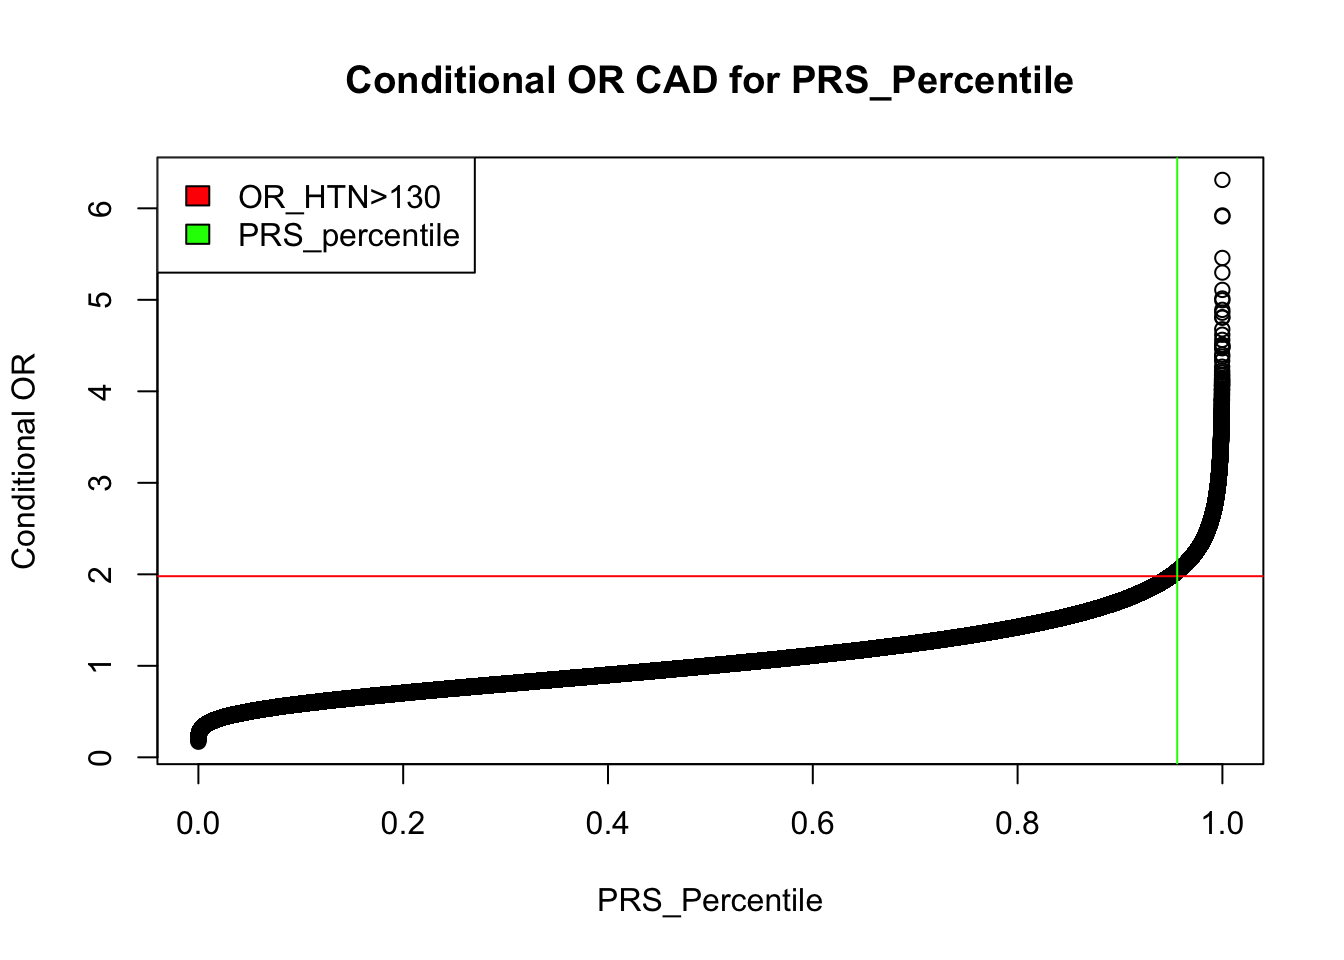
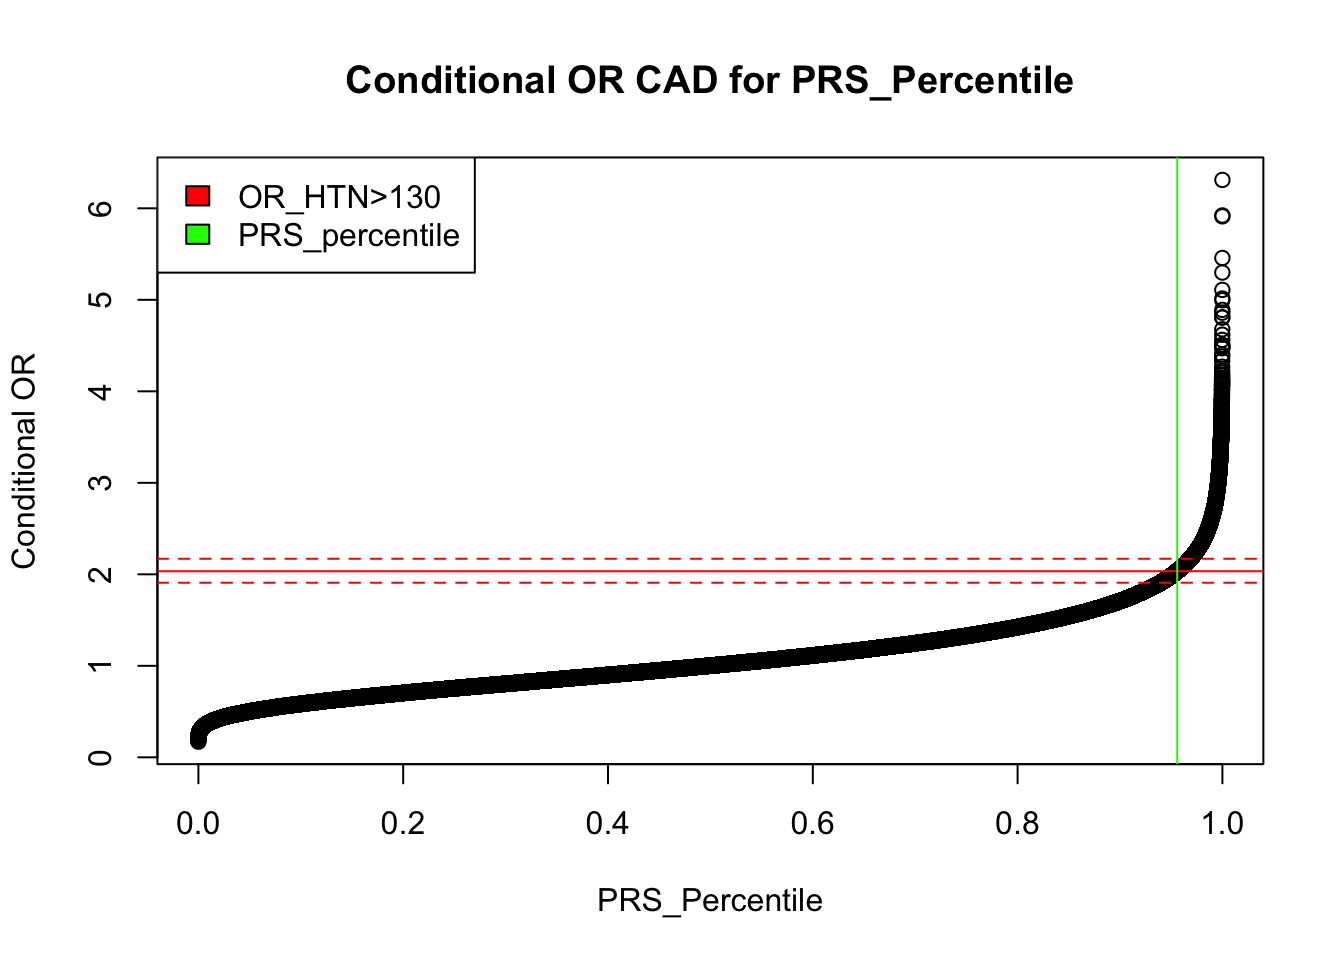
Build site.

Changed region(s): [[0.125, 0.5938, 0.9375, 0.625]]

diff --git a/docs/prs_equivalency.html b/docs/prs_equivalency.html
@@ -412,16 +412,16 @@ This reproducible <a href="http://rmarkdown.rstudio.com">R Markdown</a> analysis
 <div class="panel panel-default">
 <div class="panel-heading">
 <p class="panel-title">
-<a data-toggle="collapse" data-parent="#workflowr-checks" href="#strongRepositoryversionstrongahrefhttpsgithubcombroadinstitutenatarajanlabwikitreeb3b07b3bedd0ae8c00d7b45ef9df07b0ae4c9995targetblankb3b07b3a"> <span class="glyphicon glyphicon-ok text-success" aria-hidden="true"></span> <strong>Repository version:</strong> <a href="https://github.com/broadinstitute/natarajanlab_wiki/tree/b3b07b3bedd0ae8c00d7b45ef9df07b0ae4c9995" target="_blank">b3b07b3</a> </a>
+<a data-toggle="collapse" data-parent="#workflowr-checks" href="#strongRepositoryversionstrongahrefhttpsgithubcombroadinstitutenatarajanlabwikitree0bcea68d5bf0079005e4fd4c7578d128221c130ctargetblank0bcea68a"> <span class="glyphicon glyphicon-ok text-success" aria-hidden="true"></span> <strong>Repository version:</strong> <a href="https://github.com/broadinstitute/natarajanlab_wiki/tree/0bcea68d5bf0079005e4fd4c7578d128221c130c" target="_blank">0bcea68</a> </a>
 </p>
 </div>
[2 lines of base64/hex data omitted]
 <div class="panel-body">
 <p>
 Great! You are using Git for version control. Tracking code development and connecting the code version to the results is critical for reproducibility.
 </p>
 <p>
-The results in this page were generated with repository version <a href="https://github.com/broadinstitute/natarajanlab_wiki/tree/b3b07b3bedd0ae8c00d7b45ef9df07b0ae4c9995" target="_blank">b3b07b3</a>. See the <em>Past versions</em> tab to see a history of the changes made to the R Markdown and HTML files.
+The results in this page were generated with repository version <a href="https://github.com/broadinstitute/natarajanlab_wiki/tree/0bcea68d5bf0079005e4fd4c7578d128221c130c" target="_blank">0bcea68</a>. See the <em>Past versions</em> tab to see a history of the changes made to the R Markdown and HTML files.
 </p>
 <p>
 Note that you need to be careful to ensure that all relevant files for the analysis have been committed to Git prior to generating the results (you can use <code>wflow_publish</code> or <code>wflow_git_commit</code>). workflowr only checks the R Markdown file, but you know if there are other scripts or data files that it depends on. Below is the status of the Git repository when the results were generated:
@@ -482,6 +482,40 @@ Message
 </tr>
 </thead>
 <tbody>
+<tr>
+<td>
+Rmd
+</td>
+<td>
+<a href="https://github.com/broadinstitute/natarajanlab_wiki/blob/0bcea68d5bf0079005e4fd4c7578d128221c130c/analysis/prs_equivalency.Rmd" target="_blank">0bcea68</a>
+</td>
+<td>
+Your Name
+</td>
+<td>
+2021-09-17
+</td>
+<td>
+wflow_publish("prs_equivalency.Rmd")
+</td>
+</tr>
+<tr>
+<td>
+html
+</td>
+<td>
+<a href="https://rawcdn.githack.com/broadinstitute/natarajanlab_wiki/060bf166d341de0559edd1365e572f30bd8e4d17/docs/prs_equivalency.html" target="_blank">060bf16</a>
+</td>
+<td>
+Your Name
+</td>
+<td>
+2021-09-17
+</td>
+<td>
+Build site.
+</td>
+</tr>
 <tr>
 <td>
 Rmd
@@ -983,6 +1017,17 @@ Date
 <tbody>
 <tr>
 <td>
+<a href="https://github.com/broadinstitute/natarajanlab_wiki/blob/060bf166d341de0559edd1365e572f30bd8e4d17/docs/figure/prs_equivalency.Rmd/unnamed-chunk-2-1.png" target="_blank">060bf16</a>
+</td>
+<td>
+Your Name
+</td>
+<td>
+2021-09-17
+</td>
+</tr>
+<tr>
+<td>
 <a href="https://github.com/broadinstitute/natarajanlab_wiki/blob/2cdb0213e243ff0422ba0e6870727770fc062c50/docs/figure/prs_equivalency.Rmd/unnamed-chunk-2-1.png" target="_blank">2cdb021</a>
 </td>
 <td>
@@ -1003,28 +1048,30 @@ Your Name
 
 r=(rank(df$prs_quant)/length(df$prs_quant))
 
-glm.ldl=glm(df$cad~df$ldl_fact,family=binomial)
-exp(coef(glm.ldl))</code></pre>
-<pre><code> (Intercept) df$ldl_fact1 
-  0.01652829   1.97949366 </code></pre>
-<pre class="r"><code>glm.prs=glm(df$cad~df$prs_quant,family=binomial)
+
+
+glm.prs=glm(df$cad~df$prs_quant,family=binomial)
 exp(coef(glm.prs))</code></pre>
 <pre><code> (Intercept) df$prs_quant 
   0.01653583   1.51951454 </code></pre>
+<pre class="r"><code>glm.ldl=glm(df$cad~df$ldl_fact,family=binomial)
+exp(coef(glm.ldl))</code></pre>
+<pre><code> (Intercept) df$ldl_fact1 
+  0.01652829   1.97949366 </code></pre>
 <pre class="r"><code>q=coef(glm.ldl)[[2]]/coef(glm.prs)[[2]]
-
-
-
 
 w=which(df$prs_quant&gt;q)
 t=which.min(df$prs_quant[w])
 perc=r[w[t]]
 
-s=sample(seq(1,nrow(df)),100000)
-r=(rank(df$prs_quant)/length(df$prs_quant))
-
+c=confint(glm.ldl)</code></pre>
+<pre><code>Waiting for profiling to be done...</code></pre>
+<pre class="r"><code>s=sample(seq(1,nrow(df)),100000)
 plot(r[s],exp(df$prs_quant[s]*coef(glm.prs)[[2]]),main=&quot;Conditional OR CAD for PRS_Percentile&quot;,xlab=&#39;PRS_Percentile&#39;,ylab=&quot;Conditional OR&quot;)
 abline(h=exp(coef(glm.ldl)[[2]]),col=&quot;red&quot;,pch=1)
+
+abline(h=exp(c[2,1]),col=&quot;red&quot;,lty=2)
+abline(h=exp(c[2,2]),col=&quot;red&quot;,lty=2)
 abline(v=perc,pch=2,col=&quot;green&quot;)
 legend(&quot;topleft&quot;,c(&quot;OR_LDL&gt;190&quot;,&quot;PRS_percentile&quot;),col=c(&quot;red&quot;,&quot;green&quot;),fill=c(&quot;red&quot;,&quot;green&quot;))</code></pre>
 <p><img src="figure/prs_equivalency.Rmd/unnamed-chunk-3-1.png" width="672" style="display: block; margin: auto;" /></p>
@@ -1052,6 +1099,17 @@ Date
 <tbody>
 <tr>
 <td>
+<a href="https://github.com/broadinstitute/natarajanlab_wiki/blob/060bf166d341de0559edd1365e572f30bd8e4d17/docs/figure/prs_equivalency.Rmd/unnamed-chunk-3-1.png" target="_blank">060bf16</a>
+</td>
+<td>
+Your Name
+</td>
+<td>
+2021-09-17
+</td>
+</tr>
+<tr>
+<td>
 <a href="https://github.com/broadinstitute/natarajanlab_wiki/blob/2cdb0213e243ff0422ba0e6870727770fc062c50/docs/figure/prs_equivalency.Rmd/unnamed-chunk-3-1.png" target="_blank">2cdb021</a>
 </td>
 <td>
@@ -1074,7 +1132,9 @@ exp(coef(glm.dm))</code></pre>
  0.01565385  4.49046952 </code></pre>
 <pre class="r"><code>qd=coef(glm.dm)[[2]]/coef(glm.prs)[[2]]
 
-w=which(df$prs_quant&gt;qd)
+c=confint(glm.dm)</code></pre>
+<pre><code>Waiting for profiling to be done...</code></pre>
+<pre class="r"><code>w=which(df$prs_quant&gt;qd)
 t=which.min(df$prs_quant[w])
 perc=r[w[t]]
 
@@ -1082,7 +1142,9 @@ s=sample(seq(1,nrow(df)),100000)
 r=(rank(df$prs_quant)/length(df$prs_quant))
 
 plot(r[s],exp(df$prs_quant[s]*coef(glm.prs)[[2]]),main=&quot;Conditional OR CAD for PRS_Percentile&quot;,xlab=&#39;PRS_Percentile&#39;,ylab=&quot;Conditional OR&quot;)
-abline(h=exp(coef(glm.ldl)[[2]]),col=&quot;red&quot;,pch=1)
+abline(h=exp(coef(glm.dm)[[2]]),col=&quot;red&quot;,pch=1)
+abline(h=exp(c[2,1]),col=&quot;red&quot;,lty=2)
+abline(h=exp(c[2,2]),col=&quot;red&quot;,lty=2)
 abline(v=perc,pch=2,col=&quot;green&quot;)
 legend(&quot;topleft&quot;,c(&quot;OR_DM&quot;,&quot;PRS_percentile&quot;),col=c(&quot;red&quot;,&quot;green&quot;),fill=c(&quot;red&quot;,&quot;green&quot;))</code></pre>
 <p><img src="figure/prs_equivalency.Rmd/unnamed-chunk-4-1.png" width="672" style="display: block; margin: auto;" /></p>
@@ -1108,6 +1170,17 @@ Date
 </tr>
 </thead>
 <tbody>
+<tr>
+<td>
+<a href="https://github.com/broadinstitute/natarajanlab_wiki/blob/060bf166d341de0559edd1365e572f30bd8e4d17/docs/figure/prs_equivalency.Rmd/unnamed-chunk-4-1.png" target="_blank">060bf16</a>
+</td>
+<td>
+Your Name
+</td>
+<td>
+2021-09-17
+</td>
+</tr>
 <tr>
 <td>
 <a href="https://github.com/broadinstitute/natarajanlab_wiki/blob/0332cfaafa2fd1f78d956fec9e145b458d598d88/docs/figure/prs_equivalency.Rmd/unnamed-chunk-4-1.png" target="_blank">0332cfa</a>
@@ -1145,9 +1218,9 @@ exp(coef(glm.htn))</code></pre>
                                 df$age 
                           1.0668881884 </code></pre>
 <pre class="r"><code>qh=coef(glm.htn)[[2]]/coef(glm.prs)[[2]]
-
-
-w=which(df$prs_quant&gt;qh)
+c=confint(glm.htn)</code></pre>
+<pre><code>Waiting for profiling to be done...</code></pre>
+<pre class="r"><code>w=which(df$prs_quant&gt;qh)
 t=which.min(df$prs_quant[w])
 perc=r[w[t]]
 
@@ -1155,7 +1228,11 @@ s=sample(seq(1,nrow(df)),100000)
 r=(rank(df$prs_quant)/length(df$prs_quant))
 
 plot(r[s],exp(df$prs_quant[s]*coef(glm.prs)[[2]]),main=&quot;Conditional OR CAD for PRS_Percentile&quot;,xlab=&#39;PRS_Percentile&#39;,ylab=&quot;Conditional OR&quot;)
-abline(h=exp(coef(glm.ldl)[[2]]),col=&quot;red&quot;,pch=1)
+
+abline(h=exp(coef(glm.htn)[[2]]),col=&quot;red&quot;,pch=1)
+abline(h=exp(c[2,1]),col=&quot;red&quot;,lty=2)
+abline(h=exp(c[2,2]),col=&quot;red&quot;,lty=2)
+       
 abline(v=perc,pch=2,col=&quot;green&quot;)
 legend(&quot;topleft&quot;,c(&quot;OR_HTN&gt;130&quot;,&quot;PRS_percentile&quot;),col=c(&quot;red&quot;,&quot;green&quot;),fill=c(&quot;red&quot;,&quot;green&quot;))</code></pre>
 <p><img src="figure/prs_equivalency.Rmd/unnamed-chunk-5-1.png" width="672" style="display: block; margin: auto;" /></p>
@@ -1181,6 +1258,17 @@ Date
 </tr>
 </thead>
 <tbody>
+<tr>
+<td>
+<a href="https://github.com/broadinstitute/natarajanlab_wiki/blob/060bf166d341de0559edd1365e572f30bd8e4d17/docs/figure/prs_equivalency.Rmd/unnamed-chunk-5-1.png" target="_blank">060bf16</a>
+</td>
+<td>
+Your Name
+</td>
+<td>
+2021-09-17
+</td>
+</tr>
 <tr>
 <td>
 <a href="https://github.com/broadinstitute/natarajanlab_wiki/blob/2cdb0213e243ff0422ba0e6870727770fc062c50/docs/figure/prs_equivalency.Rmd/unnamed-chunk-5-1.png" target="_blank">2cdb021</a>
@@ -1289,6 +1377,17 @@ Date
 <tbody>
 <tr>
 <td>
+<a href="https://github.com/broadinstitute/natarajanlab_wiki/blob/060bf166d341de0559edd1365e572f30bd8e4d17/docs/figure/prs_equivalency.Rmd/unnamed-chunk-6-1.png" target="_blank">060bf16</a>
+</td>
+<td>
+Your Name
+</td>
+<td>
+2021-09-17
+</td>
+</tr>
+<tr>
+<td>
 <a href="https://github.com/broadinstitute/natarajanlab_wiki/blob/2cdb0213e243ff0422ba0e6870727770fc062c50/docs/figure/prs_equivalency.Rmd/unnamed-chunk-6-1.png" target="_blank">2cdb021</a>
 </td>
 <td>
@@ -1340,15 +1439,15 @@ other attached packages:
 
 loaded via a namespace (and not attached):
  [1] Rcpp_1.0.7        whisker_0.4       knitr_1.33        magrittr_2.0.1   
- [5] workflowr_1.6.2   R6_2.5.0          rlang_0.4.11      fansi_0.5.0      
- [9] highr_0.9         stringr_1.4.0     tools_4.0.2       xfun_0.24        
-[13] utf8_1.2.2        git2r_0.28.0      jquerylib_0.1.4   htmltools_0.5.1.1
-[17] ellipsis_0.3.2    rprojroot_2.0.2   yaml_2.2.1        digest_0.6.27    
-[21] tibble_3.1.3      lifecycle_1.0.0   crayon_1.4.1      later_1.2.0      
-[25] sass_0.4.0        vctrs_0.3.8       fs_1.5.0          promises_1.2.0.1 
-[29] glue_1.4.2        evaluate_0.14     rmarkdown_2.9     stringi_1.7.3    
-[33] compiler_4.0.2    bslib_0.2.5.1     pillar_1.6.1      jsonlite_1.7.2   
-[37] httpuv_1.6.1      pkgconfig_2.0.3  </code></pre>
+ [5] workflowr_1.6.2   MASS_7.3-54       R6_2.5.0          rlang_0.4.11     
+ [9] fansi_0.5.0       highr_0.9         stringr_1.4.0     tools_4.0.2      
+[13] xfun_0.24         utf8_1.2.2        git2r_0.28.0      jquerylib_0.1.4  
+[17] htmltools_0.5.1.1 ellipsis_0.3.2    rprojroot_2.0.2   yaml_2.2.1       
+[21] digest_0.6.27     tibble_3.1.3      lifecycle_1.0.0   crayon_1.4.1     
+[25] later_1.2.0       sass_0.4.0        vctrs_0.3.8       fs_1.5.0         
+[29] promises_1.2.0.1  glue_1.4.2        evaluate_0.14     rmarkdown_2.9    
+[33] stringi_1.7.3     compiler_4.0.2    bslib_0.2.5.1     pillar_1.6.1     
+[37] jsonlite_1.7.2    httpuv_1.6.1      pkgconfig_2.0.3  </code></pre>
 </div>
 </div>
 
